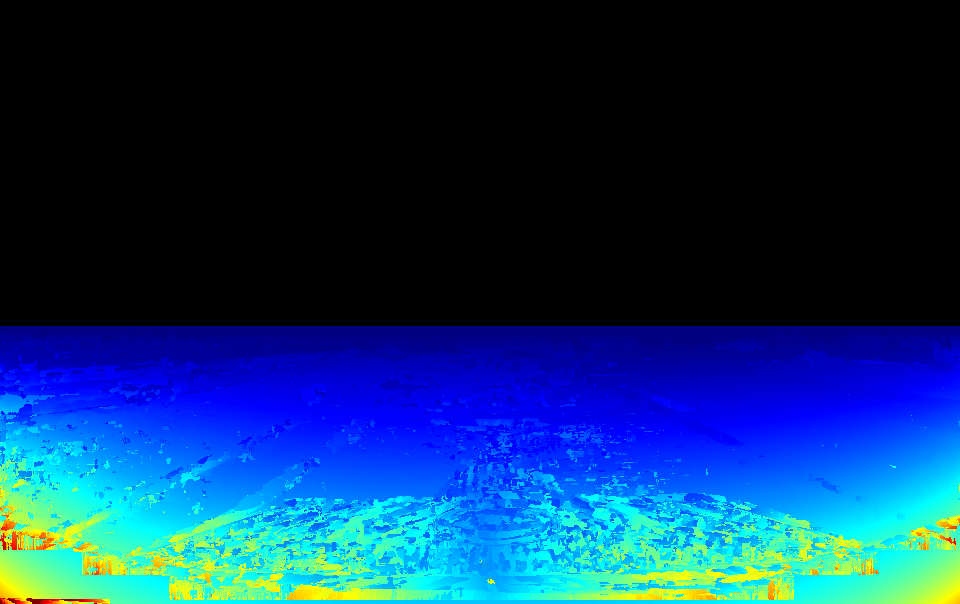
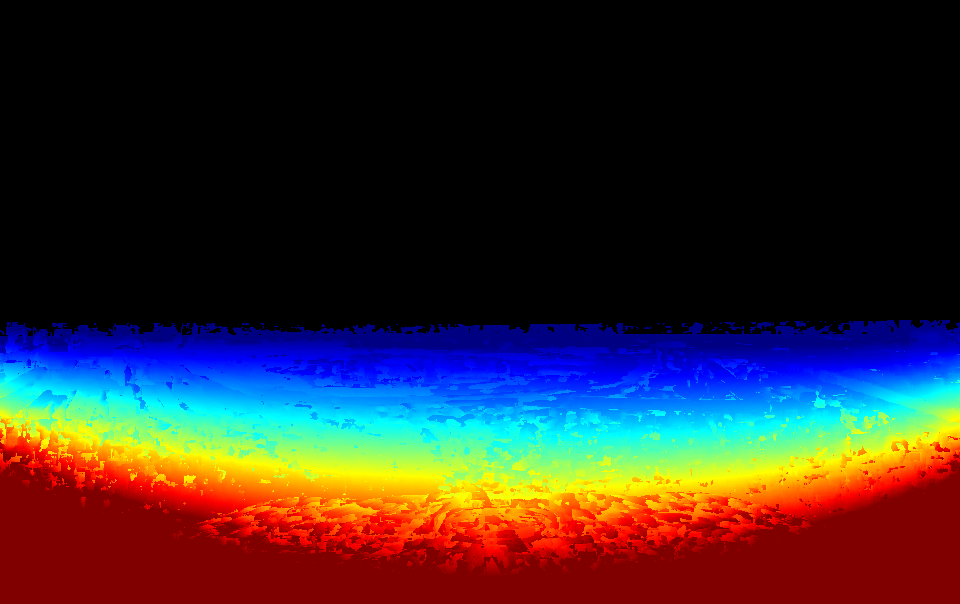
update for saic tri-cam test
1. adjust params;
2. add rotation to planes;
3. visualize cost volumes;
4. extract depths on edges.

diff --git a/src/PSLTests/fisheyePlanesweepTestSaic.cpp b/src/PSLTests/fisheyePlanesweepTestSaic.cpp
@@ -20,7 +20,7 @@
 #include <Eigen/Dense>
 #include <fstream>
 #include <psl_base/exception.h>
-#include <opencv2/highgui/highgui.hpp>
+#include <opencv2/opencv.hpp>
 #include <psl_cudaBase/cudaFishEyeImageProcessor.h>
 #include <psl_stereo/cudaFishEyePlaneSweep.h>
 #include <boost/filesystem.hpp>
@@ -139,8 +139,8 @@ int main(int argc, char* argv[])
   PSL_CUDA::DeviceImage devImg;
   PSL_CUDA::CudaFishEyeImageProcessor cFEIP;
 
-  double minZ = 1.0;
-  double maxZ = 2.0;
+  double minZ = 1.5;
+  double maxZ = 1.7;
 
   makeOutputFolder("fisheyeTestResultsSaic");
 
@@ -150,7 +150,7 @@ int main(int argc, char* argv[])
     cFEPS.setScale(1.0);
     cFEPS.setZRange(minZ, maxZ);
     cFEPS.setMatchWindowSize(9, 9);
-    cFEPS.setNumPlanes(300);
+    cFEPS.setNumPlanes(20);
     cFEPS.setOcclusionMode(PSL::FISH_EYE_PLANE_SWEEP_OCCLUSION_NONE);
     cFEPS.setPlaneGenerationMode(
         PSL::FISH_EYE_PLANE_SWEEP_PLANEMODE_UNIFORM_DEPTH_GROUND);
@@ -158,10 +158,10 @@ int main(int argc, char* argv[])
     cFEPS.setSubPixelInterpolationMode(
         PSL::FISH_EYE_PLANE_SWEEP_SUB_PIXEL_INTERP_INVERSE);
     cFEPS.enableOutputBestDepth();
-    cFEPS.enableOutputBestCosts(false);
+    cFEPS.enableOutputBestCosts();
     cFEPS.enableOuputUniquenessRatio(false);
-    cFEPS.enableOutputCostVolume(false);
-    cFEPS.enableSubPixel();
+    cFEPS.enableOutputCostVolume();
+    cFEPS.enableSubPixel(false);
 
     // undistort and add the images
     int refId = -1;
@@ -206,12 +206,23 @@ int main(int argc, char* argv[])
       fEDM = cFEPS.getBestDepth();
       cv::Mat refImage = cFEPS.downloadImage(refId);
 
+      PSL::Grid<float> bestCosts;
+      bestCosts = cFEPS.getBestCosts();
+      PSL::displayGridZSliceAsImage(bestCosts, 0, 10);
+
+//      PSL::Grid<float> costVolume;
+//      costVolume = cFEPS.getCostVolume();
+//      for (unsigned int i = 0; i < costVolume.getDepth(); i++)
+//      {
+//        PSL::displayGridZSliceAsImage(costVolume, i, (float) 0.1, (float) 0.4, 10);
+//      }
+
       makeOutputFolder(
           "fisheyeTestResultsSaic/grayscaleZNCC/NoOcclusionHandling/");
       cv::imwrite(
           "fisheyeTestResultsSaic/grayscaleZNCC/NoOcclusionHandling/refImg.png",
           refImage);
-      float minDepth = 1.0;
+      float minDepth = 3.0;
       float maxDepth = 60.0;
       fEDM.saveInvDepthAsColorImage("fisheyeTestResultsSaic/grayscaleZNCC/"
                                     "NoOcclusionHandling/invDepthCol.png",
@@ -219,6 +230,32 @@ int main(int argc, char* argv[])
 
       cv::imshow("Reference Image", refImage);
       fEDM.displayInvDepthColored(minDepth, maxDepth, 100);
+
+      cv::Mat colInvDepth;
+      fEDM.getInvDepthColored(minDepth, maxDepth, colInvDepth);
+
+      // show depth on the edges
+      cv::Mat detectedEdges;
+      cv::blur(refImage, detectedEdges, cv::Size(3,3));
+      cv::Canny(detectedEdges, detectedEdges, 30.0, 100.0, 3);
+
+      cv::Mat edgeColInvDepth;
+      colInvDepth.copyTo(edgeColInvDepth, detectedEdges);
+
+      cv::Mat edgeOnColInvDepth;
+      cv::Mat invDetectedEdges =
+          cv::Mat::ones(detectedEdges.size(), detectedEdges.type()) * 255 - detectedEdges;
+      colInvDepth.copyTo(edgeOnColInvDepth, invDetectedEdges);
+
+      cv::imwrite("fisheyeTestResultsSaic/grayscaleZNCC/"
+                  "NoOcclusionHandling/edgeColInvDepth.png", edgeColInvDepth);
+      cv::imwrite("fisheyeTestResultsSaic/grayscaleZNCC/"
+                  "NoOcclusionHandling/edgeOnColInvDepth.png", edgeOnColInvDepth);
+
+      cv::imshow("detected edges", detectedEdges);
+      cv::imshow("invert depth of the edges", edgeColInvDepth);
+      cv::imshow("edges on the depth", edgeOnColInvDepth);
+
       cv::waitKey();
     }
   }

diff --git a/src/PSL/psl_stereo/cudaFishEyePlaneSweep.cpp b/src/PSL/psl_stereo/cudaFishEyePlaneSweep.cpp
@@ -247,12 +247,13 @@ void CudaFishEyePlaneSweep::process(int refImgId)
         PSL_THROW_EXCEPTION(strstream.str().c_str());
     }
 
-    planes = Grid<Eigen::Vector4d>(numPlanes,1);
 
     switch(planeGenerationMode)
     {
     case FISH_EYE_PLANE_SWEEP_PLANEMODE_UNIFORM_DEPTH:
     {
+        planes = Grid<Eigen::Vector4d>(numPlanes, 1);
+
         double step = (farZ - nearZ)/(numPlanes-1);
 
         for (int i = 0; i < numPlanes; i++)
@@ -265,6 +266,8 @@ void CudaFishEyePlaneSweep::process(int refImgId)
     }
     case FISH_EYE_PLANE_SWEEP_PLANEMODE_UNIFORM_DISPARITY:
     {
+        planes = Grid<Eigen::Vector4d>(numPlanes, 1);
+
         double minD = 1.0/farZ;
         double maxD = 1.0/nearZ;
 
@@ -280,14 +283,49 @@ void CudaFishEyePlaneSweep::process(int refImgId)
     }
     case FISH_EYE_PLANE_SWEEP_PLANEMODE_UNIFORM_DEPTH_GROUND:
     {
-      double step = (farZ - nearZ)/(numPlanes-1);
+      // ground plane normal in world frame
+      Eigen::Vector3d nW;
+      nW << 0.0, 0.0, 1.0;
 
-      for (int i = 0; i < numPlanes; i++)
-      {
-        planes(i,0).setZero();
-        planes(i,0)(1) = -1;
-        planes(i,0)(3) = nearZ + i*step;
-      }
+      // rotatation range
+      double rollRange = 1.0 * M_PI / 180.0;
+      double pitchRange = 1.0 * M_PI / 180.0;
+      double numAngle = 4.0;
+
+      double stepRoll = rollRange / (numAngle - 1);
+      double stepPitch = pitchRange / (numAngle - 1);
+
+      planes = Grid<Eigen::Vector4d>(numPlanes * numAngle * numAngle, 1);
+      int cntPlane = 0;
+
+      for (int r = 0; r < numAngle; r++)
+        for (int p = 0; p < numAngle; p++)
+        {
+          // rotation
+          double roll = - rollRange / 2.0 + r * stepRoll;
+          double pitch = - pitchRange / 2.0 + p * stepPitch;
+
+          Eigen::Matrix3d R;
+          R = Eigen::AngleAxisd(pitch, Eigen::Vector3d::UnitY()) *
+              Eigen::AngleAxisd(roll, Eigen::Vector3d::UnitX());
+
+          // transform to camera frame
+          Eigen::Vector3d nC;
+          nC = refImg.cam.getR() * R * nW;
+
+          double step = (farZ - nearZ)/(numPlanes-1);
+
+          for (int i = 0; i < numPlanes; i++)
+          {
+            planes(cntPlane,0)(0) = nC(0);
+            planes(cntPlane,0)(1) = nC(1);
+            planes(cntPlane,0)(2) = nC(2);
+            planes(cntPlane,0)(3) = nearZ + i*step;
+
+            cntPlane++;
+          }
+        }
+
       break;
     }
     }
@@ -805,6 +843,11 @@ FishEyeDepthMap<float, double> CudaFishEyePlaneSweep::getBestDepth()
 Grid<float> CudaFishEyePlaneSweep::getBestCosts()
 {
     return bestCosts;
+}
+
+Grid<float> CudaFishEyePlaneSweep::getCostVolume()
+{
+  return costVolume;
 }
 
 Grid<float> CudaFishEyePlaneSweep::getUniquenessRatios()

diff --git a/src/PSL/psl_base/fishEyeDepthMap.cpp b/src/PSL/psl_base/fishEyeDepthMap.cpp
@@ -149,6 +149,31 @@ void FishEyeDepthMap<T, U>::displayInvDepthColored(T minZ, T maxZ, int displayTi
     cv::waitKey(displayTime);
 }
 
+template <typename T, typename U>
+void FishEyeDepthMap<T, U>::getInvDepthColored(T minZ, T maxZ, cv::Mat& colInvDepth)
+{
+    colInvDepth = cv::Mat::zeros(height, width, CV_8UC3);
+
+     for (int y = 0; y < colInvDepth.rows; y++)
+     {
+         unsigned char* pixel = colInvDepth.ptr<unsigned char>(y);
+         for (int x = 0; x < colInvDepth.cols; ++x)
+         {
+             const T depth = (*this)(x,y);
+             if (depth > 0)
+             {
+                 int idx = (int) round(std::max((T) 0, std::min(1/depth - 1/maxZ, 1/minZ - 1/maxZ) / (1/minZ - 1/maxZ)) * (T) 255);
+
+                 pixel[0] = (int) round(colorMapJet[idx][2] * 255.0f);
+                 pixel[1] = (int) round(colorMapJet[idx][1] * 255.0f);
+                 pixel[2] = (int) round(colorMapJet[idx][0] * 255.0f);
+             }
+
+             pixel += 3;
+         }
+     }
+}
+
 
 template <typename T, typename U>
 T& FishEyeDepthMap<T, U>::operator() (int x, int y)

diff --git a/src/PSL/psl_base/fishEyeDepthMap.h b/src/PSL/psl_base/fishEyeDepthMap.h
@@ -50,6 +50,8 @@ namespace PSL
         void displayInvDepth(T minZ, T maxZ, int displayTime = 0, const char* windowName = "inverse depth map");
         void displayInvDepthColored(T minZ, T maxZ, int displayTime = 0, const char* windowName = "color coded inverse depth map");
 
+        void getInvDepthColored(T minZ, T maxZ, cv::Mat& colInvDepth);
+
         void saveInvDepthAsColorImage(std::string fileName, T minZ, T maxZ);
 
         // returns a point with homogeneous component 0 if depth is invalid
